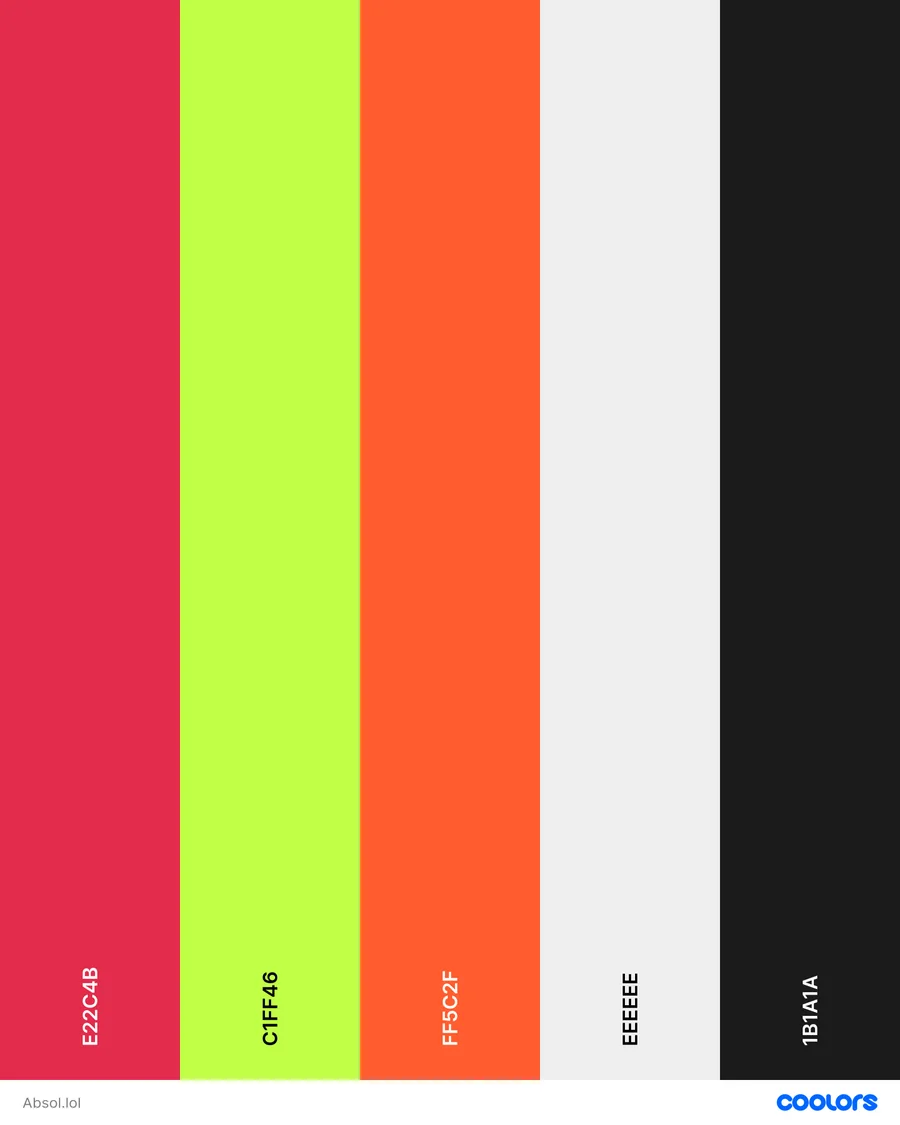
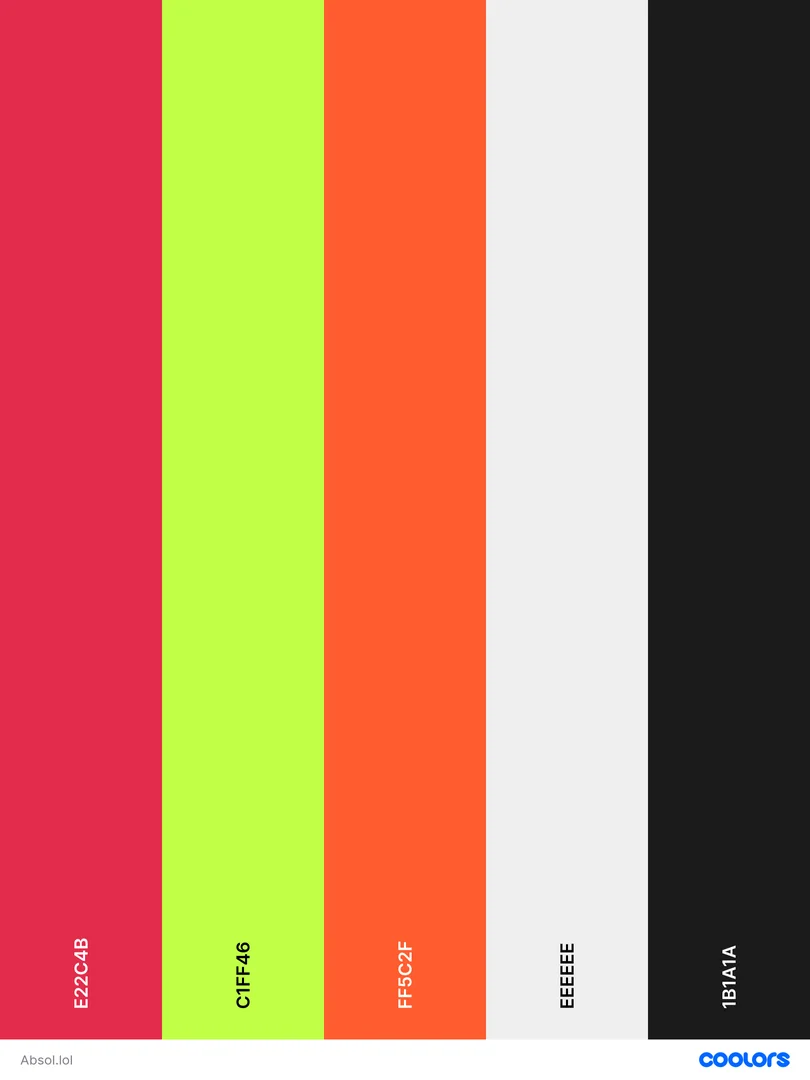
Add files via upload

Changed region(s): [[0.0, 0.8556, 0.5864, 1.0], [0.8025, 0.8556, 1.0, 1.0], [0.679, 0.8556, 0.7099, 0.9472]]

diff --git a/index.html b/index.html
@@ -190,7 +190,7 @@ nav.main a:hover sup{color:var(--lime)}
 .card:hover .ph img{transform:scale(1.06)}
 .card .ph .tags{position:absolute;left:14px;top:14px;display:flex;gap:6px;flex-wrap:wrap;opacity:0;transform:translateY(-8px);transition:all .45s var(--ease)}
 .card:hover .ph .tags{opacity:1;transform:none}
-.card .ph .tag{background:rgba(14,14,16,.7)}
+.card .ph .tag{background:#fff;color:var(--ink);border-radius:99px;padding:7px 13px;backdrop-filter:none;box-shadow:0 6px 18px -8px rgba(14,14,16,.35)}
 .card .meta{display:flex;justify-content:space-between;gap:12px;align-items:baseline;padding:14px 2px 0}
 .card h3{margin:0;font:900 clamp(30px,3vw,48px)/1 var(--disp);text-transform:uppercase;transition:letter-spacing .5s var(--ease),color .3s}
 .card:hover h3{letter-spacing:.04em;color:var(--vio)}
@@ -308,6 +308,24 @@ nav.main a:hover sup{color:var(--lime)}
 .next small{font-size:13px;color:rgba(255,255,255,.7)}
 .next b{display:block;font:900 clamp(48px,9vw,160px)/.9 var(--disp);text-transform:uppercase;margin-top:12px;transition:color .3s}
 .next:hover b{font-family:var(--wide);font-size:clamp(40px,7vw,128px);color:var(--lime)}
+/* lightbox */
+.gal figure{cursor:zoom-in}
+#lb{--py:clamp(72px,9vh,100px);--px:clamp(16px,7vw,120px);position:fixed;inset:0;z-index:200;background:rgba(238,238,235,.95);backdrop-filter:blur(16px);-webkit-backdrop-filter:blur(16px);opacity:0;visibility:hidden;transition:opacity .4s var(--ease),visibility 0s .4s}
+#lb.on{opacity:1;visibility:visible;transition:opacity .4s var(--ease),visibility 0s}
+.lbstage{position:absolute;inset:0;display:flex;align-items:center;justify-content:center;padding:var(--py) var(--px);cursor:zoom-out}
+.lbstage img,.lbstage video{max-width:100%;max-height:calc(100vh - 2*var(--py));max-height:calc(100dvh - 2*var(--py));object-fit:contain;border-radius:14px;box-shadow:0 40px 90px -40px rgba(14,14,16,.5);cursor:default;opacity:0;transform:scale(.95) translateY(12px);transition:opacity .4s var(--ease),transform .6s var(--ease)}
+.lbstage .show{opacity:1;transform:none}
+.lbstage.long{display:block;overflow-y:auto;overscroll-behavior:contain}
+.lbstage.long img{display:block;width:min(1040px,100%);max-height:none;margin:0 auto}
+.lbbtn{position:absolute;z-index:2;width:50px;height:50px;border-radius:99px;background:#fff;color:var(--ink);display:grid;place-items:center;font-size:18px;box-shadow:0 10px 26px -12px rgba(14,14,16,.4);transition:transform .35s var(--ease),background .3s,color .3s}
+.lbbtn:hover{background:var(--vio);color:#fff;transform:scale(1.08)}
+.lbbtn:active{transform:scale(.94)}
+#lbx{top:20px;right:20px}
+#lbp,#lbn{top:50%;margin-top:-25px}#lbp{left:20px}#lbn{right:20px}
+#lbp:hover{transform:translateX(-3px) scale(1.08)}#lbn:hover{transform:translateX(3px) scale(1.08)}
+.lbcount{position:absolute;z-index:2;top:27px;left:50%;transform:translateX(-50%);background:#fff;color:var(--ink);font:600 12px/1 var(--body);letter-spacing:.06em;padding:9px 14px;border-radius:99px;box-shadow:0 8px 20px -10px rgba(14,14,16,.35);font-variant-numeric:tabular-nums}
+#lb.single .lbnav,#lb.single .lbcount{display:none}
+@media(max-width:760px){#lbp,#lbn{top:auto;bottom:18px;margin:0}#lbp{left:calc(50% - 58px)}#lbn{right:calc(50% - 58px)}#lb{--py:84px;--px:14px}}
 @media(max-width:760px){.ovgrid{grid-template-columns:1fr}.gal.pt{--gc:2!important}.gal.ls{--gc:1!important}}
 
 /* reveal util */
@@ -419,6 +437,7 @@ nav.main a:hover sup{color:var(--lime)}
   </section>
 </main>
 
+<div id="lb" role="dialog" aria-modal="true" aria-label="Imagem ampliada" aria-hidden="true"><div class="lbstage" id="lbstage"></div><div class="lbcount" id="lbcount"></div><button class="lbbtn" id="lbx" aria-label="Fechar">✕</button><button class="lbbtn lbnav" id="lbp" aria-label="Imagem anterior">←</button><button class="lbbtn lbnav" id="lbn" aria-label="Próxima imagem">→</button></div>
 <div id="ov" role="dialog" aria-modal="true" aria-label="Projeto" data-lenis-prevent>
   <div class="ovbar"><span class="crumb" id="ovcrumb"></span><button class="close" id="ovclose">Fechar <i>×</i></button></div>
   <div id="ovbody"></div>
@@ -434,14 +453,16 @@ const P=[
   link:["Instagram da WIBR","https://www.instagram.com/wibroficial/"]},
  {id:"so-musica-boa",t:"Só Música Boa",sub:"Identidade visual de campanha",y:"2026",cl:"Campanha de mídia · Rock in Rio",role:"Identidade visual e criativos",del:"Logotipo, paleta, padrão gráfico, avatar de perfil e criativos de feed e stories",c:["idv","perf"],cover:"smb-avatar",img:["smb-avatar","smb-idv","smb-feed","smb-story1","smb-story2","smb-feed4"],
   d:["Marca criada para uma campanha de mídia no Rock in Rio, com uma comunidade de música como destino. O lettering em camadas, com contorno rosa e sombra sólida, tem cara de adesivo de show — feito para funcionar pequeno, no avatar, e gigante, no feed.","As ondas em roxo dão movimento e ritmo ao sistema; o lima neon garante leitura em qualquer tela. Os criativos de performance usam a lógica de quiz — “qual o seu match no line-up?” — para gerar clique e entrada na comunidade."]},
- {id:"absol",t:"ABSOL",sub:"Identidade visual",y:"2026",cl:"El Gato",role:"Brand design",del:"Brand guidelines v1.0 com sete seções, logotipo, sistema de cores, tipografia e peças para redes sociais em estático e motion",c:["idv"],cover:"absol-logo",fcover:"absol-logo",nowide:true,img:["absol-logo","absol-cores","absol-card","vid:absol-video"],
-  d:["Identidade visual da ABSOL, um coach por voz em tempo real para League of Legends. A marca fala a língua da comunidade: humor de ranked, mascote gato, recortes irregulares e um tom direto, feito para quem joga.","O logotipo nasce de um bloco recortado, como um selo colado, que funciona do favicon ao key visual. O sistema combina vermelho #E22C4B, lima #C1FF46 e laranja #FF5C2F sobre grafite #1B1A1A e off-white #EEEEEE, com Anton nos títulos e Jost no texto. Nas redes, as peças misturam arte de jogo, lettering pichado em lima e motion para os anúncios."]},
+ {id:"absol",t:"ABSOL",sub:"Identidade visual",y:"2026",cl:"El Gato",role:"Brand design",del:"Brand guidelines v1.0 com sete seções, logotipo, sistema de cores, tipografia e peças para redes sociais em estático e motion",c:["idv"],cover:"absol-logo",fcover:"absol-logo",nowide:true,gc:4,img:["absol-logo","absol-cores","absol-c1","absol-c2","absol-c3","absol-c4","absol-c5","absol-c6"],
+  d:["Identidade visual da ABSOL, um coach por voz em tempo real para League of Legends. A marca fala a língua da comunidade: humor de ranked, mascote gato, recortes irregulares e um tom direto, feito para quem joga.","O logotipo nasce de um bloco recortado, como um selo colado, que funciona do favicon ao key visual. Nas redes, a série “GOAT ou bagre” usa os campeões do jogo e o humor da ranked para gerar identificação. O sistema combina vermelho #E22C4B, lima #C1FF46 e laranja #FF5C2F sobre grafite #1B1A1A e off-white #EEEEEE, com Anton nos títulos e Jost no texto. Nas redes, as peças misturam arte de jogo, lettering pichado em lima e motion para os anúncios."]},
  {id:"audi",t:"Audi Dealers",sub:"Site para concessionárias",y:"2025",cl:"Motorleads",role:"Web designer",del:"UX/UI design, estratégia de conteúdo, copywriting e direção de interface",c:["web","ux"],cover:"audi",fcover:"audi3",img:["audi","audi2","audi3","scroll:audi-page"],
   d:["Layout e estrutura do novo site das concessionárias Audi no Brasil, com foco em performance, experiência e conversão.","Construído na plataforma Duda, com integração direta ao CRM da Motorleads e às APIs da empresa, o site se atualiza em tempo real e captura leads de forma inteligente. Visual moderno, copy de impacto e navegação fluida traduzem a sofisticação da marca — sem abrir mão de clareza e acessibilidade."]},
  {id:"los-grandes",t:"LOS Grandes",sub:"Ambientação do office",y:"2025",cl:"LOS Grandes",role:"Design de ambientação",del:"Adesivagem de vitrine e fachada de patrocinadores",c:["idv"],cover:"los1",img:["los1","los2"],
   d:["Adesivos para a fachada do escritório da LOS Grandes. A vitrine principal traz a mensagem “Somos gigantes” sobre a foto de título em preto e branco, com a assinatura das redes do time.","Na lateral, a fachada de patrocinadores organiza as marcas parceiras sobre a mesma linguagem: grafite, alto contraste e fotografia de conquista."]},
  {id:"los-campeoes",t:"LOS Campeões",sub:"Key visual · Free Fire",y:"",cl:"LOS Grandes",role:"Direção de arte e key visual",del:"Key visual de comemoração do título em feed e stories",c:["idv","perf"],cover:"loscamp-feed",img:["loscamp-feed","loscamp-story"],ratios:[0.8,0.5625],
   d:["Key visual para celebrar o título do time de Free Fire da LOS Grandes.","A composição recorta os cinco jogadores em triângulos sobre o laranja da marca, com grafite em preto e traços em ciano que dão energia de conquista. No centro, o símbolo do time e o “CAMPEÕES” em condensada, com a assinatura dos patrocinadores na base. A peça foi desdobrada para feed e stories."]},
+ {id:"los-dollars",t:"LOS Dollars",sub:"Key visual · Game Day",y:"2025",cl:"LOS Grandes",role:"Direção de arte e key visual",del:"Key visual de Game Day para o time Dollars de Free Fire, com desdobramento por jogador",c:["idv","perf"],cover:"dollars-1",img:["dollars-1","dollars-2"],
+  d:["Key visual de Game Day para a Dollars, time de Free Fire da LOS Grandes, desdobrado em artes individuais para cada jogador.","Papel rasgado, grafite ao fundo, polaroids com detalhes da camisa e projéteis dourados em movimento criam a energia de dia de jogo. O “GAME DAY” em condensada com o G e o Y em dourado, a hashtag #ATropaTáPronta e a assinatura dos patrocinadores fecham o sistema."]},
  {id:"los-titulos",t:"LOS Títulos",sub:"Carrossel para Instagram",y:"2025",cl:"LOS Grandes",role:"Design e direção de arte",del:"Carrossel de oito cards celebrando a história e os títulos do time",c:["perf"],cover:"lostit-1",img:["lostit-1","lostit-2","lostit-3","lostit-4","lostit-5","lostit-6","lostit-7","lostit-8"],
   d:["Carrossel para o Instagram da LOS Grandes celebrando mais um ano de história e relembrando as principais conquistas do time: Dollars, Mobile amador, a fusão com a Team oNe e o CBLOL, os Golden Boys no Major de Rainbow Six, o VCB de VALORANT e o FFWSBR.","A narrativa se apoia em um álbum de memórias — polaroids, papel rasgado, tipografia condensada gigante e o laranja da Onda Laranja como marca-texto — e fecha com os patrocinadores e um convite para os próximos capítulos."]},
  {id:"supersim-los",t:"SuperSim × LOS",sub:"Stories para Meta Ads",y:"",cl:"SuperSim · LOS Grandes",role:"Direção de arte e design",del:"Criativos de stories para campanha de mídia paga no Meta Ads",c:["perf"],cover:"supersim-1",img:["supersim-1","supersim-2","supersim-3","supersim-4"],
@@ -462,7 +483,7 @@ const P=[
  {id:"sites-automotivos",t:"Sites automotivos",sub:"Yamaha, Toyota, AutoCar e Bajaj",y:"2025",cl:"Motorleads",role:"Web design e UX/UI",del:"Websites de concessionárias e revendas com captura de leads integrada",c:["web","ux"],cover:"yamaha-cover",img:["scroll:yamaha","scroll:toyota","scroll:autocar","scroll:bajaj"],
   d:["Websites para concessionárias Yamaha, Toyota e Bajaj e para a revenda multimarcas AutoCar, dentro da plataforma Motorleads.","Cada site respeita o universo da própria marca e mantém a mesma lógica de conversão: formulário de cotação sempre à vista, vitrine de modelos ou estoque com filtros, e caminhos claros para ofertas, seminovos, serviços e lojas."],
   link:["Ver no Behance","https://www.behance.net/camilefreitas"]},
- {id:"martech-social",t:"Martech Automotiva",sub:"Social media",y:"2025",cl:"Motorleads",role:"Design",del:"Posts e carrosséis para redes sociais",c:["perf"],cover:"martech",img:["martech-1","martech-2"],
+ {id:"martech-social",t:"Martech Automotiva",sub:"Social media",y:"2025",cl:"Motorleads",role:"Design",del:"Posts e carrosséis para redes sociais",c:["perf"],cover:"martech-cover",img:["martech-1","martech-2"],
   d:["Linha de conteúdo para as redes da Motorleads: lançamentos como a Plugin Store e o podcast Motor Talks, com uma linguagem escura, vermelha e cinematográfica."],link:["Ver no Behance","https://www.behance.net/gallery/193904885/Social-Media-Martech-Automotiva"]},
  {id:"gwm-natal",t:"Natal Great Wall",sub:"Campanha sazonal",y:"2023",cl:"Great Wall Motors",role:"Design",del:"Peças de campanha de Natal",c:["perf"],cover:"gwm",img:["gwm"],
   d:["Campanha de Natal para a Great Wall Motors, com composição fotográfica da picape Wingle 7 em cenário de neve."],link:["Ver no Behance","https://www.behance.net/gallery/186738563/Campanha-Natal-Great-Wall-Motors"]},
@@ -470,7 +491,7 @@ const P=[
   d:["Criado no curso Primeira Classe, com Lucas Rosa: um universo visual para uma bebida fictícia, com narrativa e elementos sensoriais que conectam o produto a uma história mágica."],link:["Ver no Behance","https://www.behance.net/gallery/193940223/Bebida-Pomo-de-Ouro-Desafio-Lucas-Rosa"]}
 ];
 const FEAT=["wibr-cup","so-musica-boa","wibr-social","audi","los-grandes","absol"];
-const LAYOUT=["s7 tall","s5 tall","s4","s8","s4 tall","s4 tall","s4 tall","s6","s6","s4","s4","s4","s4","s4","s4","s4","s4","s4"];
+const LAYOUT=["s7 tall","s5 tall","s4","s8","s4 tall","s4 tall","s4 tall","s6","s6","s4","s4","s4","s4","s4","s4","s6","s6","s6","s6"];
 const src=k=>"img/"+k+".webp";
 const esc=s=>String(s).replace(/[&<>"']/g,c=>({"&":"&amp;","<":"&lt;",">":"&gt;",'"':"&quot;","'":"&#39;"}[c]));
 const byId=Object.fromEntries(P.map(p=>[p.id,p]));
@@ -596,11 +617,31 @@ false&&$("#mag")?.addEventListener("click",async()=>{try{await navigator.clipboa
 
 /* ---------- overlay ---------- */
 const ov=$("#ov"),ovb=$("#ovbody");let lenis=null,lastFocus=null;
+/* ---------- lightbox ---------- */
+const lb=$("#lb"),lbs=$("#lbstage");let LBI=[],LBT="",lbi=0;
+function lbShow(i){const L=LBI.length;if(!L)return;lbi=(i+L)%L;const k=LBI[lbi];const long=k.startsWith("scroll:");
+  lbs.classList.toggle("long",long);
+  lbs.innerHTML=k.startsWith("vid:")?`<video src="img/${k.slice(4)}.mp4" autoplay muted loop playsinline controls aria-label="${esc(LBT)} — vídeo"></video>`:`<img src="${src(long?k.slice(7):k)}" alt="${esc(LBT)} — imagem ${lbi+1}">`;
+  lbs.scrollTop=0;const el=lbs.firstElementChild;requestAnimationFrame(()=>requestAnimationFrame(()=>el.classList.add("show")));
+  $("#lbcount").textContent=`${String(lbi+1).padStart(2,"0")} / ${String(L).padStart(2,"0")}`;lb.classList.toggle("single",L<2)}
+function lbOpen(i){lbShow(i);lb.classList.add("on");lb.setAttribute("aria-hidden","false");setTimeout(()=>$("#lbx").focus({preventScroll:true,focusVisible:false}),30)}
+function lbClose(){if(!lb.classList.contains("on"))return;lb.classList.remove("on");lb.setAttribute("aria-hidden","true");const v=lbs.querySelector("video");v&&v.pause();
+  const f=ovb.querySelector(`[data-lb="${lbi}"]`);f&&f.focus&&f.focus({preventScroll:true})}
+ovb.addEventListener("click",e=>{const f=e.target.closest("[data-lb]");if(f){e.preventDefault();lbOpen(+f.dataset.lb)}});
+$("#lbx").addEventListener("click",lbClose);$("#lbp").addEventListener("click",()=>lbShow(lbi-1));$("#lbn").addEventListener("click",()=>lbShow(lbi+1));
+lbs.addEventListener("click",e=>{if(e.target===lbs)lbClose()});
+addEventListener("keydown",e=>{if(!lb.classList.contains("on"))return;
+  if(e.key==="Escape"){e.preventDefault();e.stopImmediatePropagation();lbClose()}
+  else if(e.key==="ArrowRight"){e.preventDefault();e.stopImmediatePropagation();lbShow(lbi+1)}
+  else if(e.key==="ArrowLeft"){e.preventDefault();e.stopImmediatePropagation();lbShow(lbi-1)}},true);
+let tx=0,ty=0;lb.addEventListener("touchstart",e=>{tx=e.touches[0].clientX;ty=e.touches[0].clientY},{passive:true});
+lb.addEventListener("touchend",e=>{const dx=e.changedTouches[0].clientX-tx,dy=e.changedTouches[0].clientY-ty;if(Math.abs(dx)>50&&Math.abs(dx)>Math.abs(dy)*1.3)lbShow(lbi+(dx<0?1:-1))},{passive:true});
+
 function openP(id,push=true){
-  const p=byId[id];if(!p)return;lastFocus=document.activeElement;
+  const p=byId[id];if(!p)return;lastFocus=document.activeElement;LBI=p.img;LBT=p.t;lbClose();
   const i=P.indexOf(p),n=P[(i+1)%P.length];
   $("#ovcrumb").textContent=`${String(i+1).padStart(2,"0")} / ${P.length} · ${p.cl}`;
-  const AR={"wibr-cup":"16/10","so-musica-boa":"4/5","wibr-social":"4/5","absol":"4/5","audi":"4/3","los-grandes":"1/1","los-titulos":"4/5","supersim-los":"9/16","ngcash-los":"1920/250","sandbox":"3/2","mms-plataforma":"16/9","mms-marca":"16/9","nada-show":"16/10","sites-automotivos":"3/4","martech-social":"1400/928"};
+  const AR={"wibr-cup":"16/10","so-musica-boa":"4/5","wibr-social":"4/5","absol":"3/4","audi":"4/3","los-grandes":"1/1","los-titulos":"4/5","los-dollars":"4/5","supersim-los":"9/16","ngcash-los":"1920/250","sandbox":"3/2","mms-plataforma":"16/9","mms-marca":"16/9","nada-show":"16/10","sites-automotivos":"3/4","martech-social":"1400/928"};
   const ar=AR[p.id]||"auto";const tall=/^(4\/5|1\/1|9\/16)$/.test(ar);const L=p.img.length;
   const fixedW=new Set(p.img.filter(k=>k==="wsoc-capa"));
   let rest=L-fixedW.size,firstWide=false;
@@ -608,13 +649,13 @@ function openP(id,push=true){
   let gc=p.gc||(L===1?1:pick(rest));
   if(!gc){firstWide=true;rest--;gc=pick(rest)||2}
   if(gc===4&&rest<=4)gc=rest;
-  const gcls=p.ratios?"row":L===1?"one":tall?"pt":"ls";
+  const gcls=p.ratios?"row":L===1?"one":(tall||gc>=4)?"pt":"ls";
   const wide=j=>fixedW.has(p.img[j])||(firstWide&&j===[...p.img.keys()].find(x=>!fixedW.has(p.img[x])));
   const facts=[["Cliente",p.cl],["Ano",p.y||"—"],["Papel",p.role],["Frentes",p.c.map(c=>CAT[c]).join(", ")],["Entregas",p.del,"full"]];
   ovb.innerHTML=`<div class="ovhero"><div class="cats">${p.c.map(c=>`<span>${CAT[c]}</span>`).join("")}</div><h2 class="disp">${esc(p.t)}</h2></div>
   <div class="ovgrid"><dl class="facts">${facts.map(([k,v,c])=>`<div class="${c||""}"><dt>${k}</dt><dd>${esc(v)}</dd></div>`).join("")}</dl>
   <div class="desc">${p.d.map(x=>`<p>${esc(x)}</p>`).join("")}${p.link?`<a class="ext" href="${p.link[1]}" target="_blank" rel="noopener">${esc(p.link[0])} ↗</a>`:""}</div></div>
-  <div class="gal ${gcls}" style="--gc:${gc};--ar:${ar}">${p.img.map((k,j)=>`<figure class="${wide(j)?"w":""}"${p.ratios?` style="flex:${p.ratios[j]}"`:""}>${k.startsWith("scroll:")?`<img class="scrollimg" src="${src(k.slice(7))}" alt="${esc(p.t)} — página completa" loading="lazy"><span class="scrollhint">Passe o mouse para rolar a página</span>`:k.startsWith("vid:")?`<video src="img/${k.slice(4)}.mp4" autoplay muted loop playsinline aria-label="${esc(p.t)} — vídeo"></video>`:`<img src="${src(k)}" alt="${esc(p.t)} — imagem ${j+1}" loading="lazy">`}</figure>`).join("")}</div>
+  <div class="gal ${gcls}" style="--gc:${gc};--ar:${ar}">${p.img.map((k,j)=>`<figure class="${wide(j)?"w":""}" data-lb="${j}" data-cursor="Ampliar"${p.ratios?` style="flex:${p.ratios[j]}"`:""}>${k.startsWith("scroll:")?`<img class="scrollimg" src="${src(k.slice(7))}" alt="${esc(p.t)} — página completa" loading="lazy"><span class="scrollhint">Passe o mouse para rolar a página</span>`:k.startsWith("vid:")?`<video src="img/${k.slice(4)}.mp4" autoplay muted loop playsinline aria-label="${esc(p.t)} — vídeo"></video>`:`<img src="${src(k)}" alt="${esc(p.t)} — imagem ${j+1}" loading="lazy">`}</figure>`).join("")}</div>
   <a class="next" href="#${n.id}" data-open="${n.id}" data-cursor="Próximo"><small>Próximo projeto</small><b>${esc(n.t)}</b></a>`;
   ov.scrollTop=0;ov.classList.add("on");document.body.classList.add("lock");lenis&&lenis.stop();
   if(push&&location.hash!=="#"+id)history.pushState(null,"","#"+id);
@@ -622,7 +663,7 @@ function openP(id,push=true){
   ovb.querySelectorAll(".gal figure").forEach(f=>io2.observe(f));
   setTimeout(()=>$("#ovclose").focus({preventScroll:true}),50);
 }
-function closeP(push=true){if(!ov.classList.contains("on"))return;ov.classList.remove("on");document.body.classList.remove("lock");lenis&&lenis.start();
+function closeP(push=true){lbClose();if(!ov.classList.contains("on"))return;ov.classList.remove("on");document.body.classList.remove("lock");lenis&&lenis.start();
   if(push)history.pushState(null,"",location.pathname+location.search);lastFocus&&lastFocus.focus&&lastFocus.focus({preventScroll:true})}
 $("#ovclose").addEventListener("click",()=>closeP());
 addEventListener("keydown",e=>{if(e.key==="Escape")closeP();
